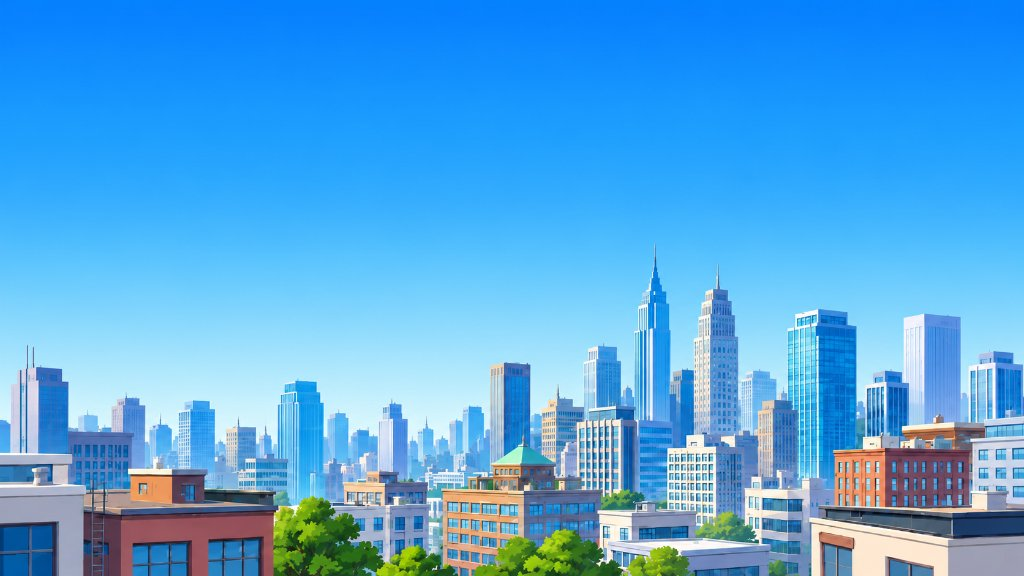
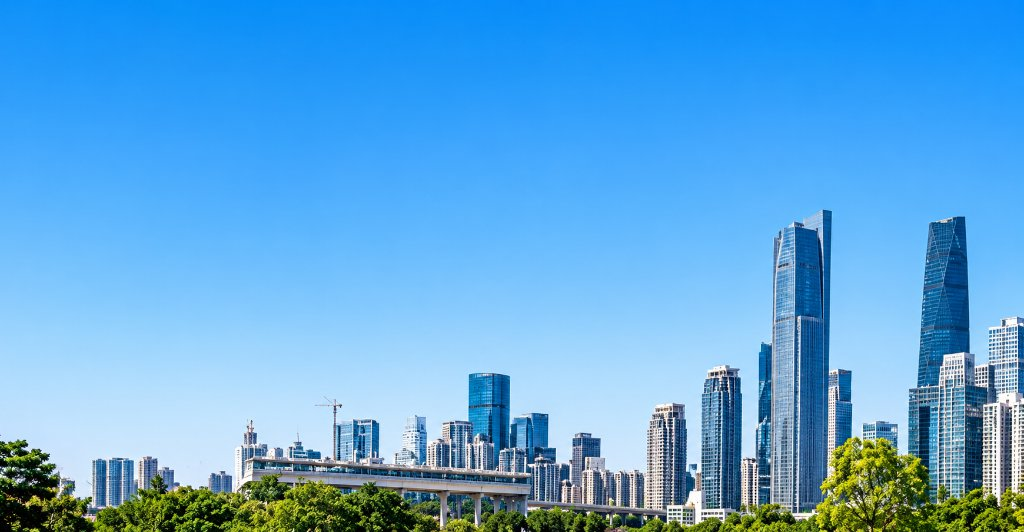
Display exact uploaded cityscape image without any shade or overlay in Business OD Hero

diff --git a/app/od-consulting/business-od/components/Hero.jsx b/app/od-consulting/business-od/components/Hero.jsx
@@ -1,96 +1,18 @@
-"use client";
-
-import { useState, useEffect } from "react";
 import Image from "next/image";
 
 export default function BusinessODHero({ className = "" }) {
-  const [isMounted, setIsMounted] = useState(false);
-
-  useEffect(() => {
-    const timer = setTimeout(() => setIsMounted(true), 60);
-    return () => clearTimeout(timer);
-  }, []);
-
   return (
-    <section
-      className={`relative w-full min-h-[500px] sm:min-h-[580px] md:min-h-[660px] h-[80vh] max-h-[920px] overflow-hidden bg-[#F0F6FC] font-ppmori ${className}`}
-    >
-      {/* Cityscape Image Background */}
-      <div className="absolute inset-0 w-full h-full overflow-hidden pointer-events-none select-none">
+    <section className={`relative w-full overflow-hidden bg-white ${className}`}>
+      <div className="relative w-full h-[55vh] sm:h-[68vh] md:h-[78vh] lg:h-[86vh] min-h-[380px] max-h-[960px]">
         <Image
-          src="/BusinessOD/business-od-hero.jpg"
-          alt="Business Organization Development Cityscape"
+          src="/BusinessOD/business-od-cityscape.jpg"
+          alt="Business Organization Development City Skyline"
           fill
           priority
           sizes="100vw"
           className="object-cover object-bottom"
         />
       </div>
-
-      {/* Floating Bird Micro-Animations */}
-      <style>{`
-        @keyframes birdGlide1 {
-          0%, 100% { transform: translate3d(0, 0, 0) rotate(0deg); }
-          50% { transform: translate3d(-14px, -10px, 0) rotate(-2deg); }
-        }
-        @keyframes birdGlide2 {
-          0%, 100% { transform: translate3d(0, 0, 0) rotate(0deg); }
-          50% { transform: translate3d(12px, -8px, 0) rotate(3deg); }
-        }
-      `}</style>
-
-      {/* Flying Bird 1 */}
-      <div
-        className="hidden md:block absolute pointer-events-none select-none z-10 transition-opacity duration-1000"
-        style={{
-          top: "16%",
-          left: "69%",
-          width: "36px",
-          opacity: isMounted ? 0.75 : 0,
-          animation: "birdGlide1 7s ease-in-out infinite",
-        }}
-        aria-hidden="true"
-      >
-        <svg viewBox="0 0 44 24" fill="none" className="w-full h-auto text-[#334155] opacity-75">
-          <path
-            d="M2 18C10 6 18 10 22 18C26 10 34 6 42 18"
-            stroke="currentColor"
-            strokeWidth="3.2"
-            strokeLinecap="round"
-          />
-        </svg>
-      </div>
-
-      {/* Flying Bird 2 */}
-      <div
-        className="hidden md:block absolute pointer-events-none select-none z-10 transition-opacity duration-1000"
-        style={{
-          top: "23%",
-          left: "79%",
-          width: "22px",
-          opacity: isMounted ? 0.6 : 0,
-          animation: "birdGlide2 8.5s ease-in-out 1.2s infinite",
-        }}
-        aria-hidden="true"
-      >
-        <svg viewBox="0 0 44 24" fill="none" className="w-full h-auto text-[#334155] opacity-65">
-          <path
-            d="M2 18C10 6 18 10 22 18C26 10 34 6 42 18"
-            stroke="currentColor"
-            strokeWidth="3.2"
-            strokeLinecap="round"
-          />
-        </svg>
-      </div>
-
-      {/* Soft bottom edge transition to page background */}
-      <div
-        className="absolute bottom-0 left-0 right-0 h-6 sm:h-10 pointer-events-none z-20"
-        style={{
-          background:
-            "linear-gradient(0deg, #FFF 0%, rgba(255, 255, 255, 0.00) 100%)",
-        }}
-      />
     </section>
   );
 }
